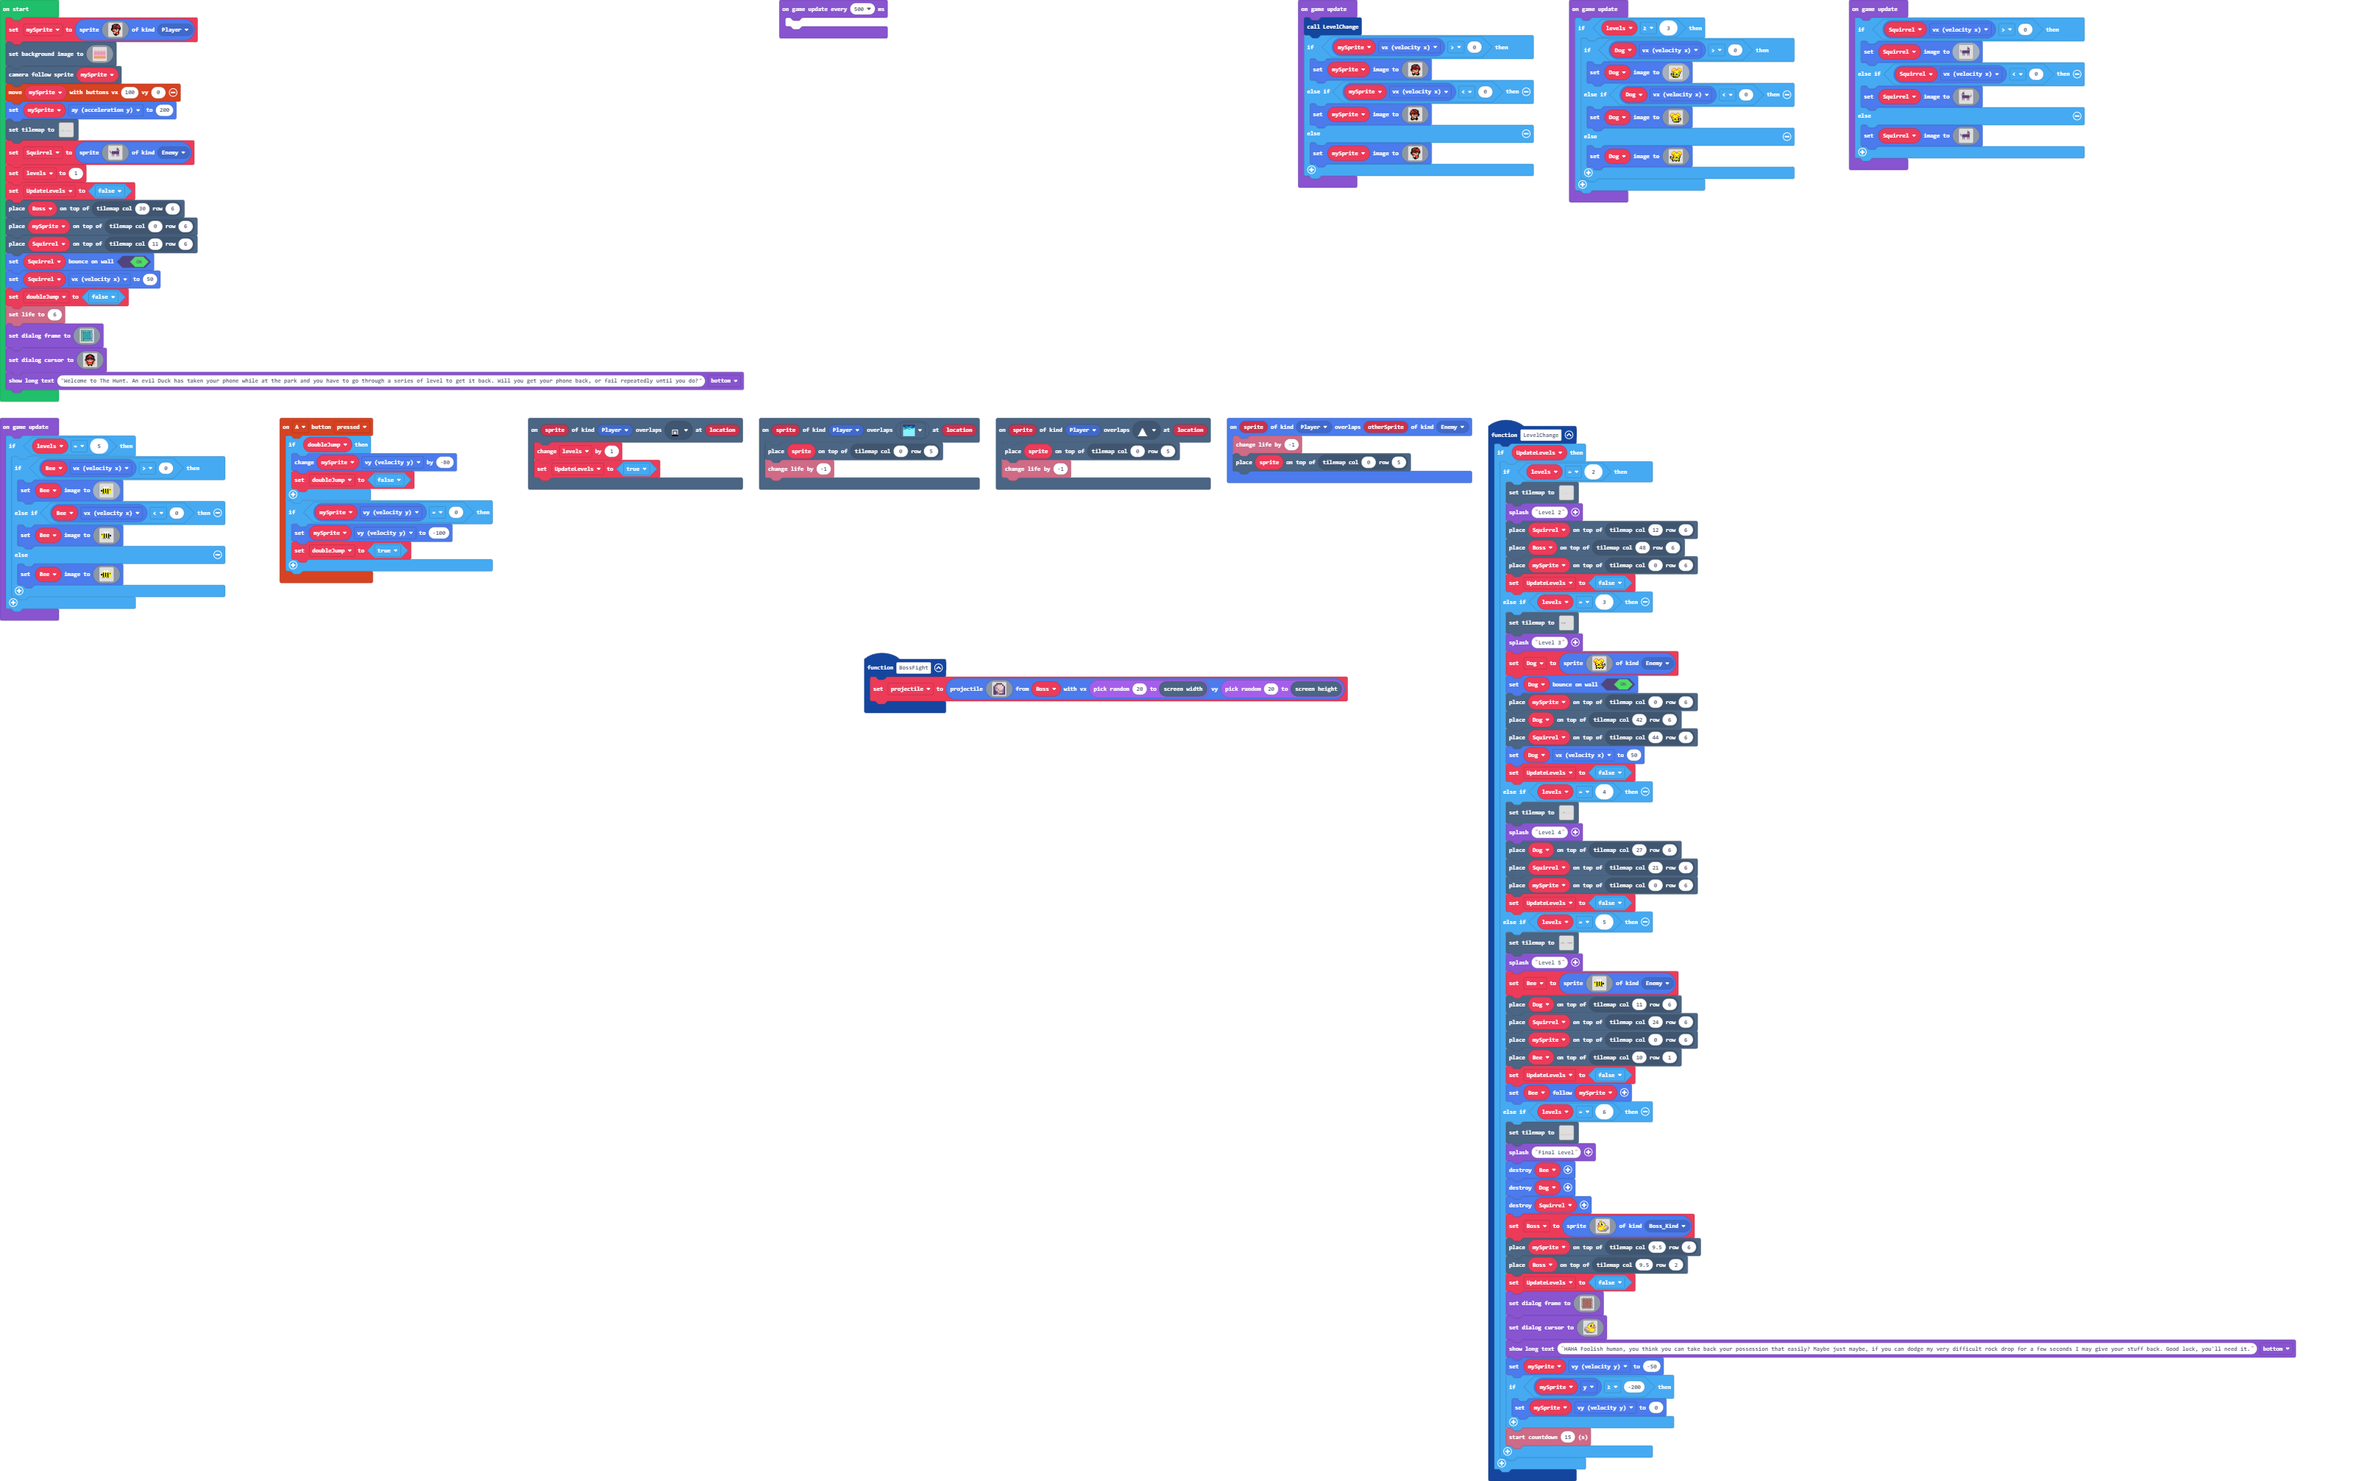
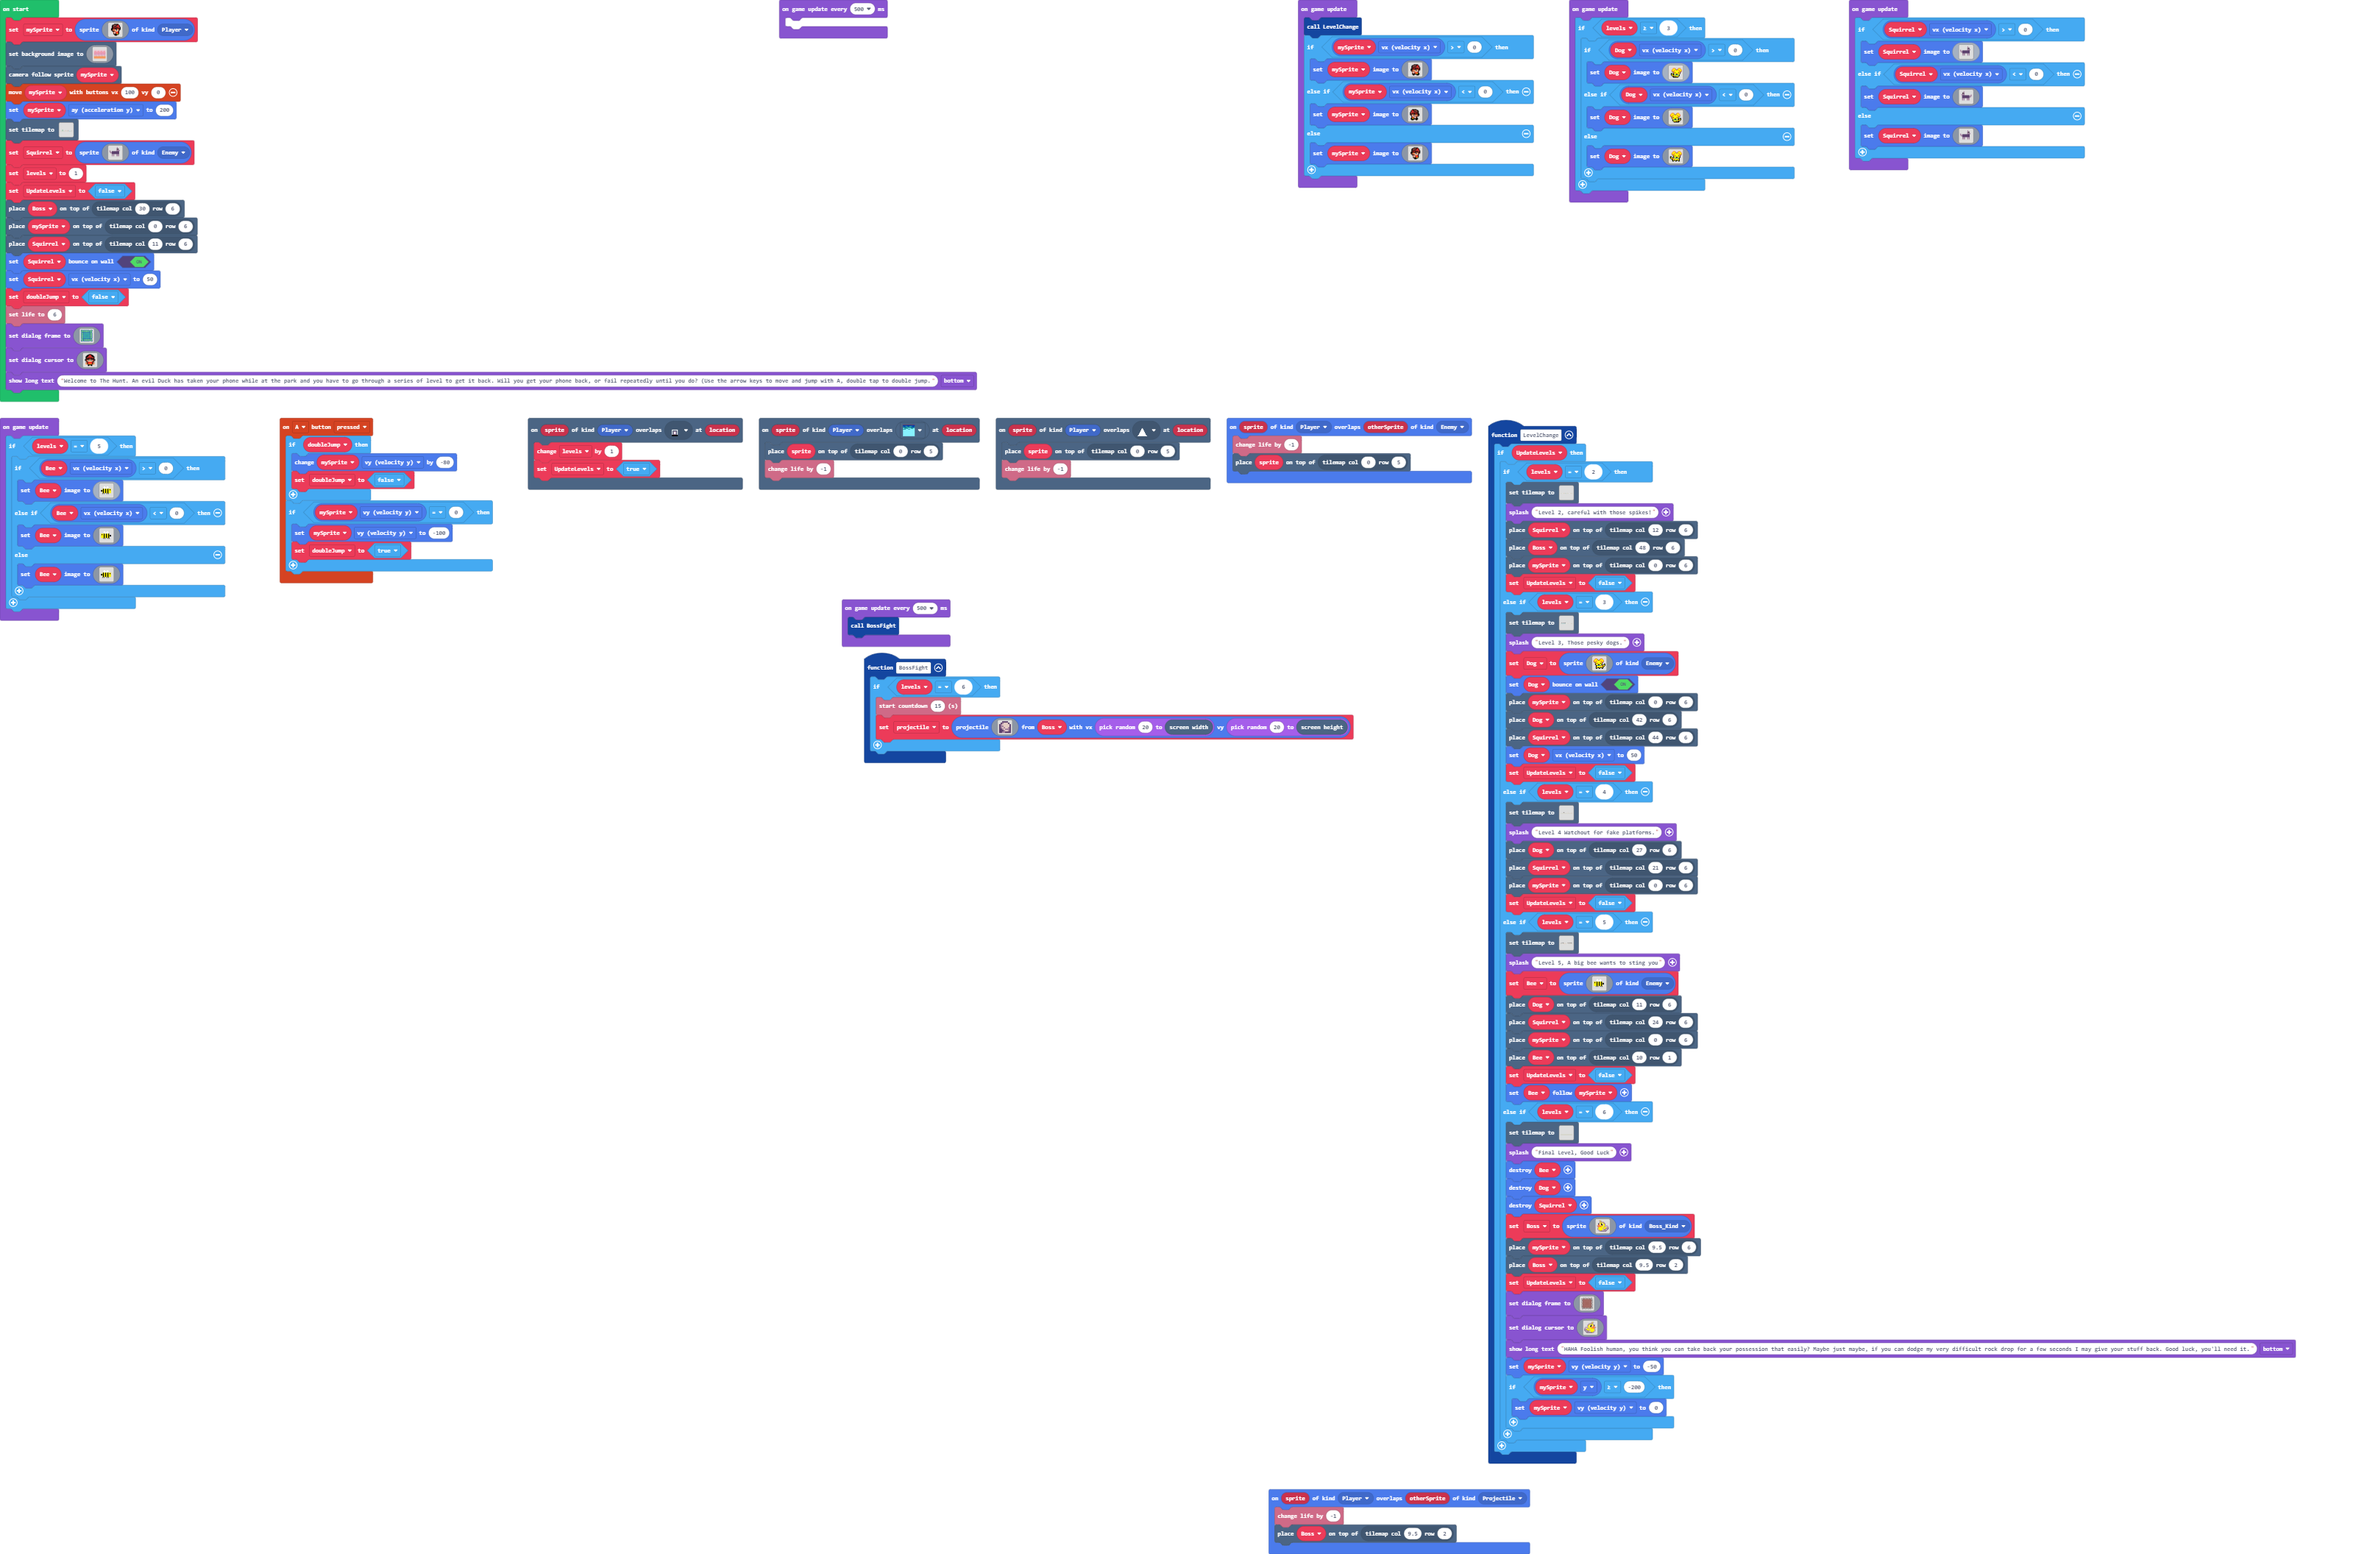
Update main.blocks, main.ts

diff --git a/main.ts b/main.ts
@@ -25,14 +25,14 @@ function LevelChange () {
     if (UpdateLevels) {
         if (levels == 2) {
             tiles.setTilemap(tilemap`level3`)
-            game.splash("Level 2")
+            game.splash("Level 2, careful with those spikes!")
             tiles.placeOnTile(Squirrel, tiles.getTileLocation(12, 6))
             tiles.placeOnTile(Boss, tiles.getTileLocation(48, 6))
             tiles.placeOnTile(mySprite, tiles.getTileLocation(0, 6))
             UpdateLevels = false
         } else if (levels == 3) {
             tiles.setTilemap(tilemap`level7`)
-            game.splash("Level 3")
+            game.splash("Level 3, Those pesky dogs.")
             Dog = sprites.create(img`
                 . . 4 4 4 . . . . 4 4 4 . . . . 
                 . 4 5 5 5 e . . e 5 5 5 4 . . . 
@@ -57,14 +57,14 @@ function LevelChange () {
             UpdateLevels = false
         } else if (levels == 4) {
             tiles.setTilemap(tilemap`level0`)
-            game.splash("Level 4")
+            game.splash("Level 4 Watchout for fake platforms.")
             tiles.placeOnTile(Dog, tiles.getTileLocation(27, 6))
             tiles.placeOnTile(Squirrel, tiles.getTileLocation(21, 6))
             tiles.placeOnTile(mySprite, tiles.getTileLocation(0, 6))
             UpdateLevels = false
         } else if (levels == 5) {
             tiles.setTilemap(tilemap`level14`)
-            game.splash("Level 5")
+            game.splash("Level 5, A big bee wants to sting you")
             Bee = sprites.create(assets.image`Bee`, SpriteKind.Enemy)
             tiles.placeOnTile(Dog, tiles.getTileLocation(11, 6))
             tiles.placeOnTile(Squirrel, tiles.getTileLocation(24, 6))
@@ -74,7 +74,7 @@ function LevelChange () {
             Bee.follow(mySprite)
         } else if (levels == 6) {
             tiles.setTilemap(tilemap`level15`)
-            game.splash("Final Level")
+            game.splash("Final Level, Good Luck")
             Bee.destroy()
             Dog.destroy()
             Squirrel.destroy()
@@ -173,22 +173,28 @@ function LevelChange () {
             if (mySprite.y >= -200) {
                 mySprite.vy = 0
             }
-            info.startCountdown(15)
         }
     }
 }
 function BossFight () {
-    projectile = sprites.createProjectileFromSprite(img`
-        . . c c c c . . 
-        . c b d d d c . 
-        c b d d d d d c 
-        c b b d d d d c 
-        c b d b d d b c 
-        c c b d b b b c 
-        c c c b d d b c 
-        c c b b c c c c 
-        `, Boss, randint(20, scene.screenWidth()), randint(20, scene.screenHeight()))
+    if (levels == 6) {
+        info.startCountdown(15)
+        projectile = sprites.createProjectileFromSprite(img`
+            . . c c c c . . 
+            . c b d d d c . 
+            c b d d d d d c 
+            c b b d d d d c 
+            c b d b d d b c 
+            c c b d b b b c 
+            c c c b d d b c 
+            c c b b c c c c 
+            `, Boss, randint(20, scene.screenWidth()), randint(20, scene.screenHeight()))
+    }
 }
+sprites.onOverlap(SpriteKind.Player, SpriteKind.Projectile, function (sprite, otherSprite) {
+    info.changeLifeBy(-1)
+    tiles.placeOnTile(Boss, tiles.getTileLocation(9.5, 2))
+})
 scene.onOverlapTile(SpriteKind.Player, sprites.dungeon.hazardWater, function (sprite, location) {
     tiles.placeOnTile(sprite, tiles.getTileLocation(0, 5))
     info.changeLifeBy(-1)
@@ -275,7 +281,7 @@ game.setDialogCursor(img`
     . . . . . f f f f f f . . . . . 
     . . . . . f f . . f f . . . . . 
     `)
-game.showLongText("Welcome to The Hunt. An evil Duck has taken your phone while at the park and you have to go through a series of level to get it back. Will you get your phone back, or fail repeatedly until you do?", DialogLayout.Bottom)
+game.showLongText("Welcome to The Hunt. An evil Duck has taken your phone while at the park and you have to go through a series of level to get it back. Will you get your phone back, or fail repeatedly until you do? (Use the arrow keys to move and jump with A, double tap to double jump.", DialogLayout.Bottom)
 game.onUpdate(function () {
     LevelChange()
     if (mySprite.vx > 0) {
@@ -514,4 +520,7 @@ game.onUpdate(function () {
 })
 game.onUpdateInterval(500, function () {
 	
+})
+game.onUpdateInterval(500, function () {
+    BossFight()
 })
